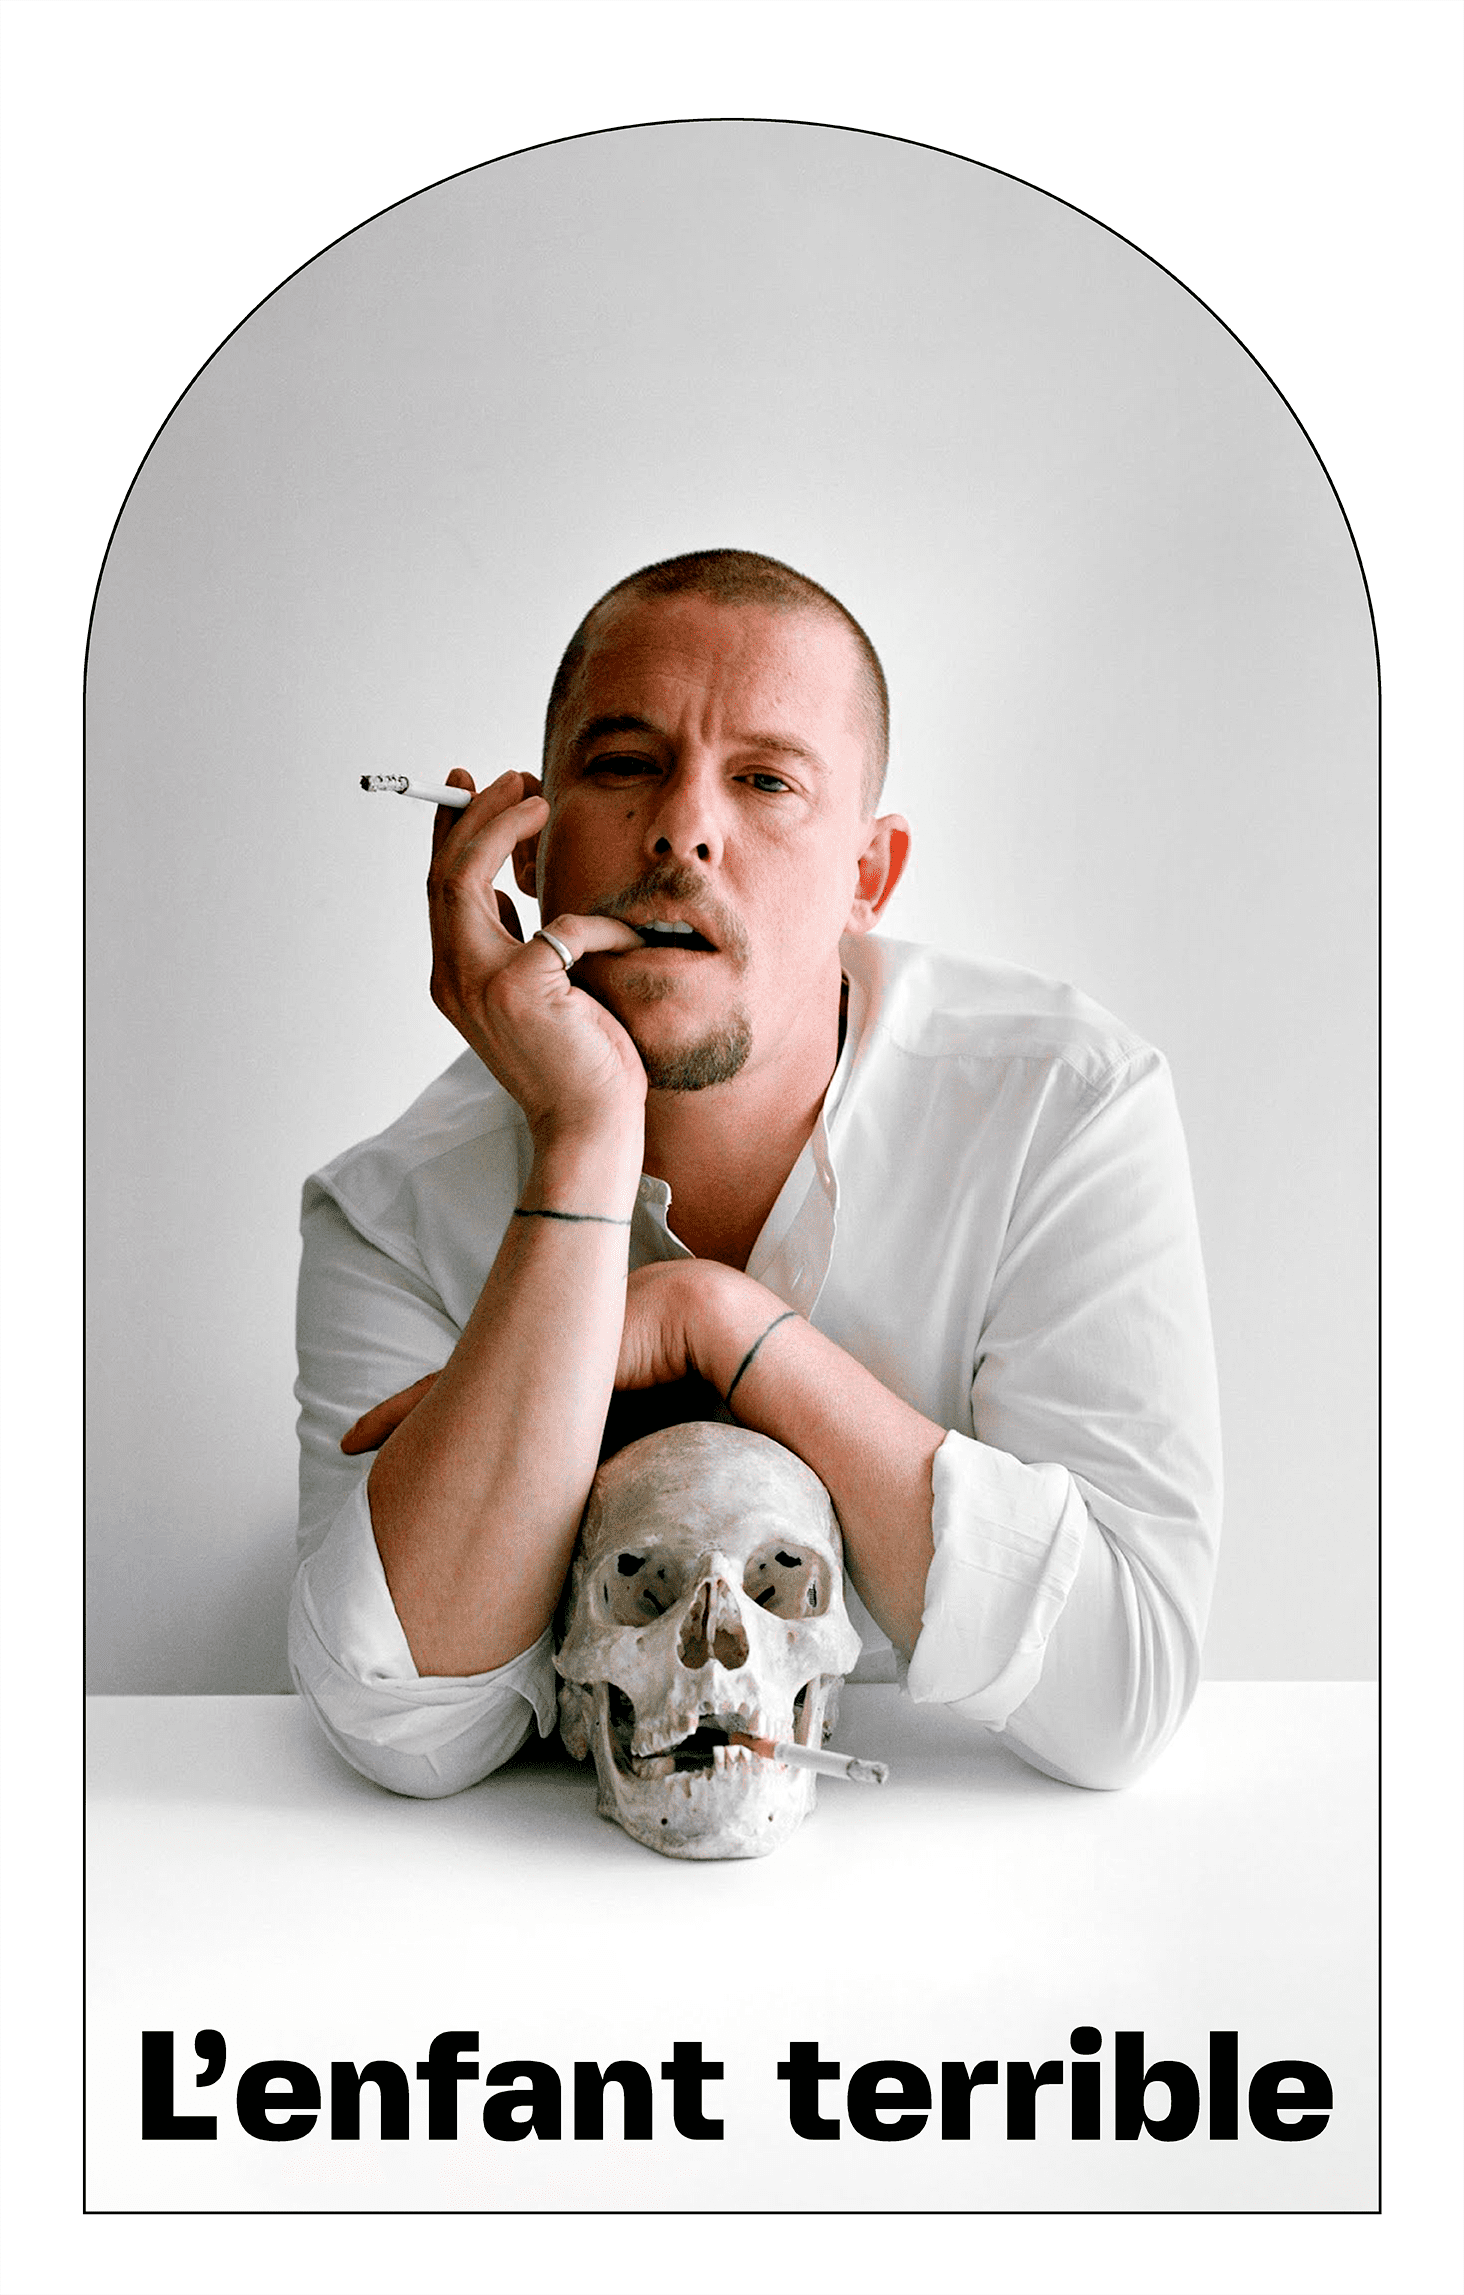
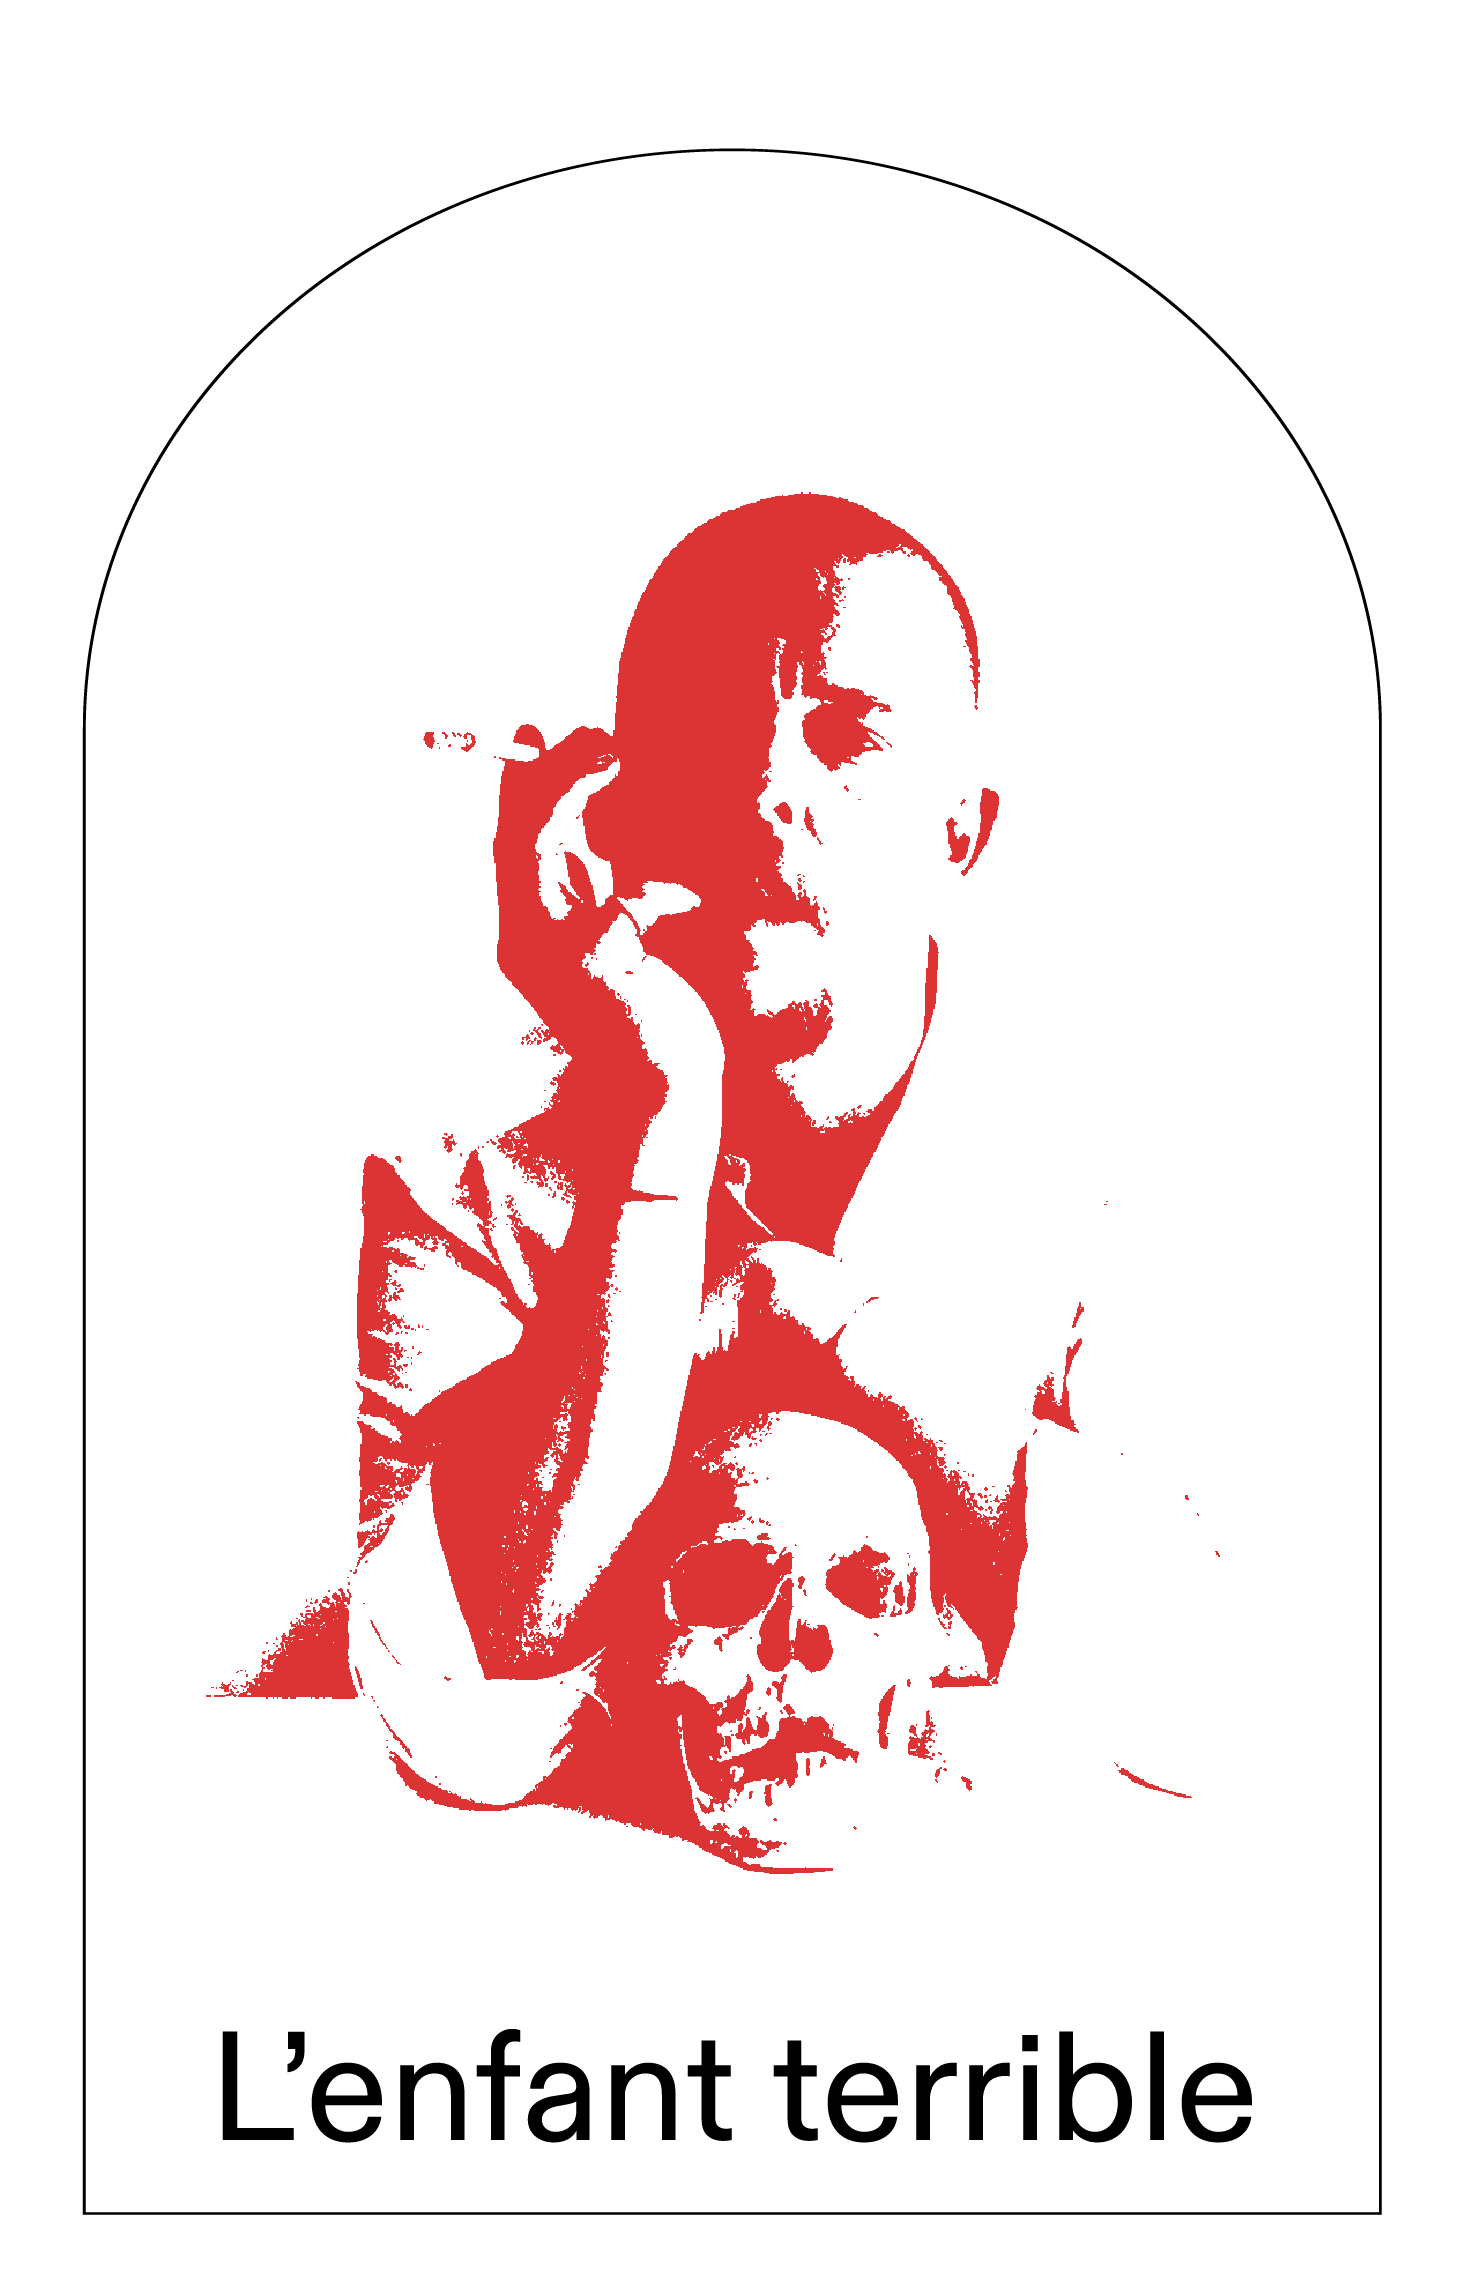
add

diff --git a/assets/css/estilos.css b/assets/css/estilos.css
@@ -25,6 +25,14 @@ html,body {
   font-style: normal;
   font-display: swap;
 }
+@font-face {
+  font-family: 'Diatype';
+  src: url('../fonts/ABCDiatype-Medium-Trial.woff2') format('woff2'),
+      url('../fonts/ABCDiatype-Medium-Trial.woff') format('woff');
+  font-weight: 500;
+  font-style: normal;
+  font-display: swap;
+}
 
 /* Index-menu */
 .contenedor1{
@@ -37,7 +45,7 @@ scroll-snap-type: y mandatory;
 }
 
 header {
-  font-family: 'FivoMedium';
+  font-family: 'Diatype';
   display: flex;
   position: absolute;
   z-index: 1;
@@ -120,7 +128,7 @@ header {
   width:150px;
 }
 .avisoscroll {
-  font-family: 'FivoMedium';
+  font-family: 'Diatype';
   font-weight: normal;
   font-style: normal;
   position: absolute;
@@ -217,7 +225,7 @@ header {
 
 /* Index-About */
 .about{
-  font-family: 'FivoMedium';
+  font-family: 'Diatype';
   width: 100%;
   height: 4050px;
   margin-bottom: 50px;
@@ -460,7 +468,7 @@ section .about p img{
 }
 
 .textocorrido2 span {
-  font-family: 'FivoMedium';
+  font-family: 'Diatype';
 	font-style: italic;
 }
 
@@ -719,7 +727,7 @@ border: 1px solid rgba( 255, 255, 255, 0.18 );
             backdrop-filter: blur(5px);
     box-shadow: 4px 4px 60px rgba(0, 0, 0, 0.2);
     color: rgb(0, 0, 0);
-    font-family:"FivoMedium";
+    font-family:"Diatype";
     font-weight: 500;
     transition: all 0.2s ease-in-out;
     text-shadow: 2px 2px 4px rgba(0, 0, 0, 0.2);
@@ -739,7 +747,7 @@ border: 1px solid rgba( 255, 255, 255, 0.18 );
     cursor: pointer;
   }
   form input::placeholder {
-    font-family: 'FivoMedium';
+    font-family: 'Diatype';
         font-weight: 400;
     color: rgba(0, 0, 0, 0.712);
     text-shadow: 2px 2px 4px rgba(255, 255, 255, 0.808);
